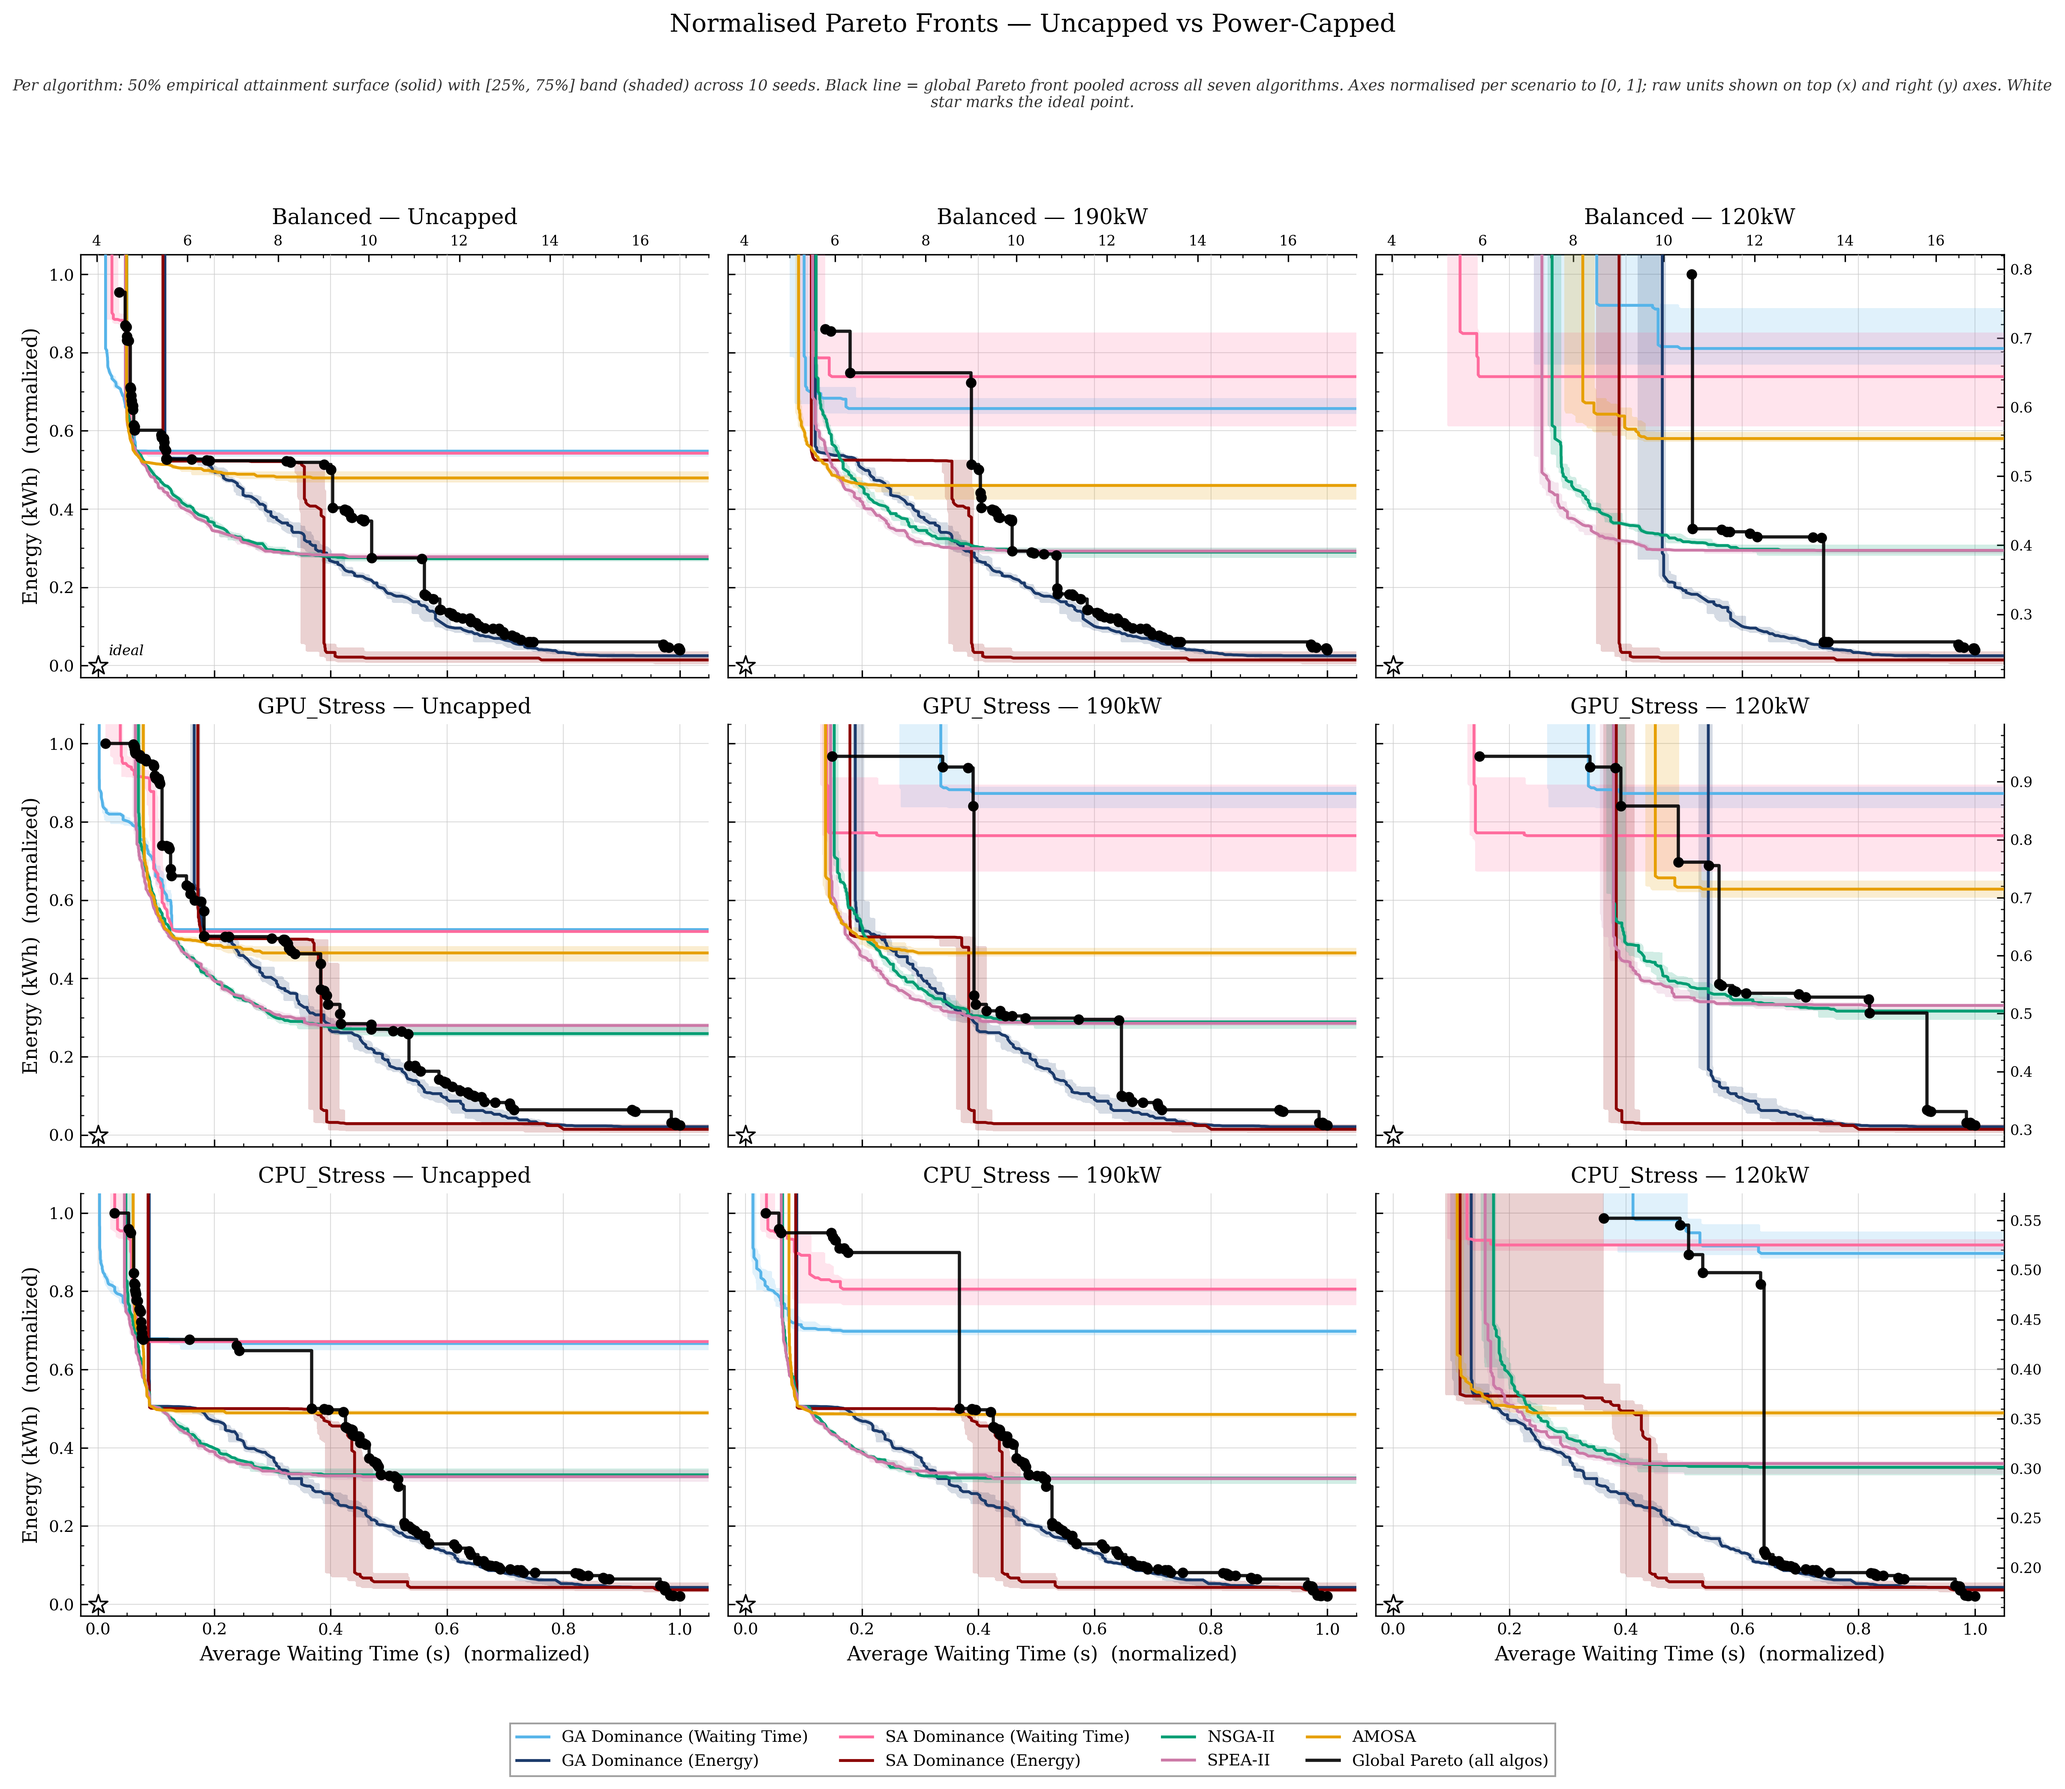
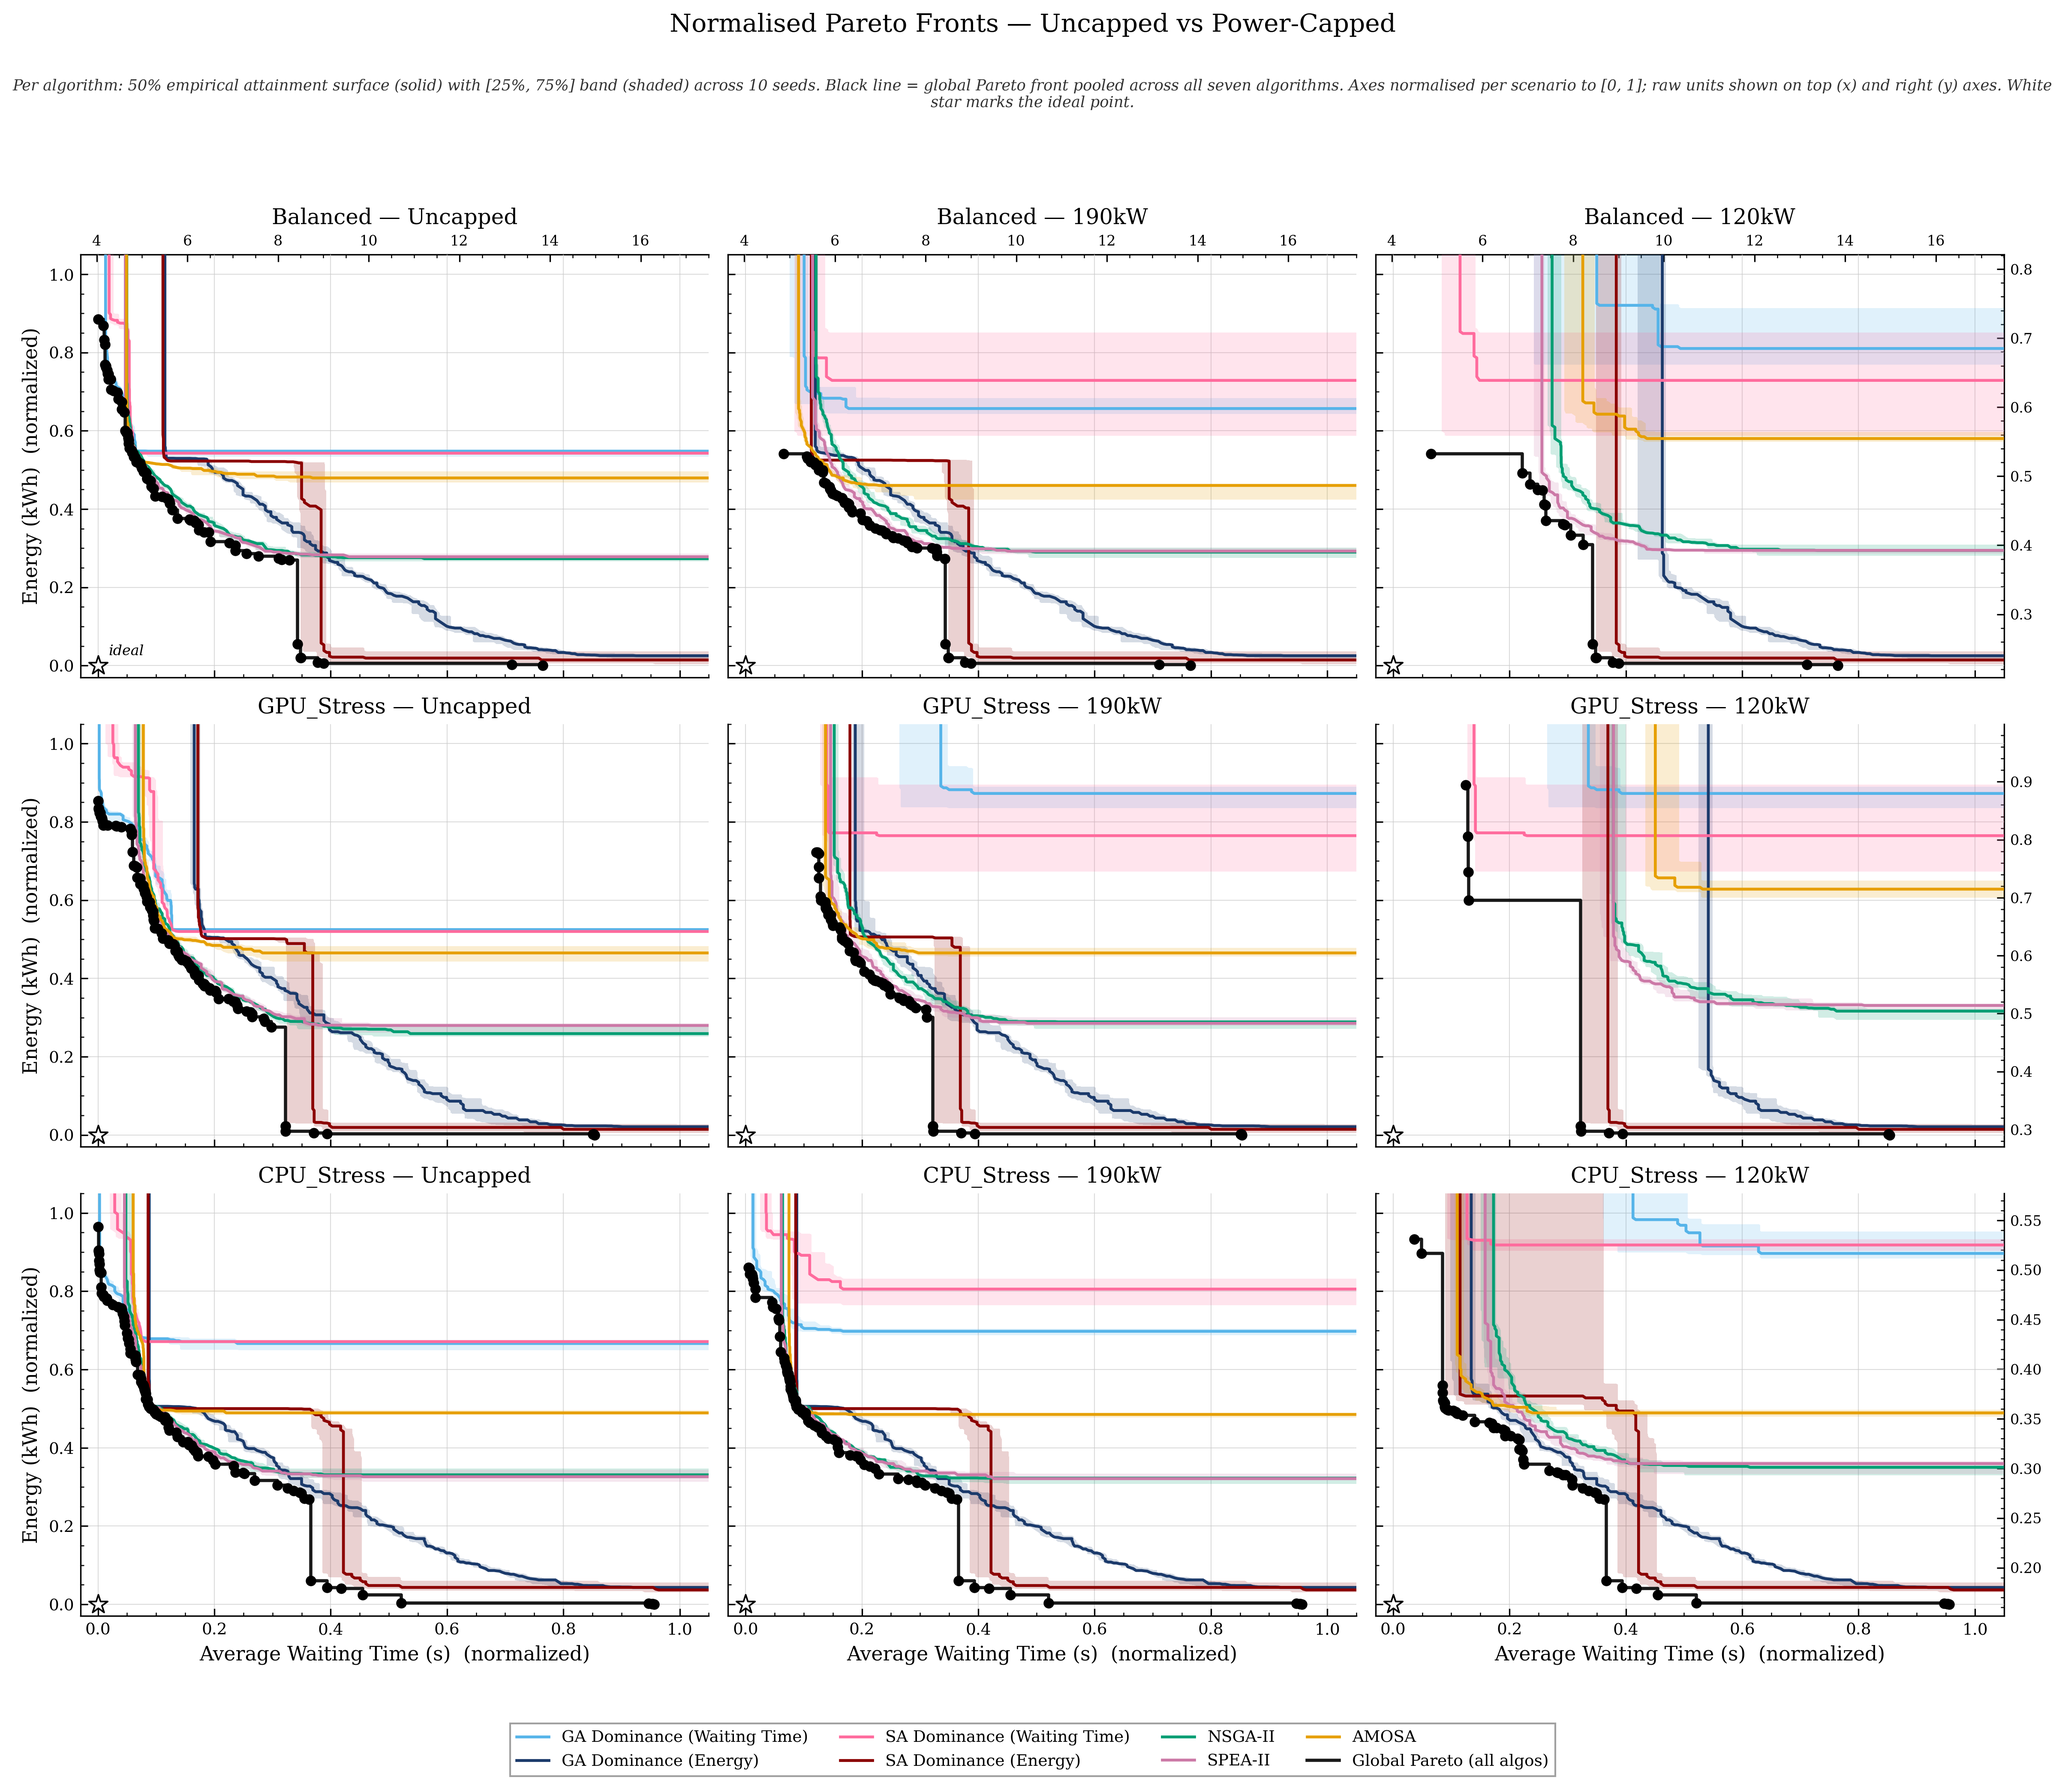
Fix inverted non-dominated mask in Global Pareto
The previous loop built dominated[j] = 'P[j] dominates P[i]' then
dropped those j's from the keep mask, so the function returned the
dominated points instead of the non-dominated ones. The Global
Pareto line ended up tracing the worst-of-best points, which in
panels like CPU_Stress-Uncapped sat visibly above every algorithm's
EAF surface.

Rewrite the mask: for each i, drop it if any j dominates it. Global
Pareto now correctly hugs the lower-left envelope.

https://claude.ai/code/session_01RwY8GN9dvrAPdDZTnej5M7

diff --git a/scripts/compare_capped_uncapped.py b/scripts/compare_capped_uncapped.py
@@ -125,15 +125,20 @@ def parse_algorithm_ids(s):
 
 
 def non_dominated_mask(points):
-    """Boolean mask of non-dominated rows (minimising both columns)."""
+    """Boolean mask of non-dominated rows (minimising both columns).
+
+    Row i is kept iff no other row j satisfies P[j] <= P[i] component-wise
+    AND P[j] < P[i] in at least one dimension (i.e. j dominates i).
+    """
     P = np.asarray(points, float)
     n = len(P)
     keep = np.ones(n, bool)
     for i in range(n):
-        if not keep[i]:
-            continue
-        dominated = np.all(P <= P[i], axis=1) & np.any(P < P[i], axis=1)
-        keep[dominated] = False
+        # j=i contributes np.any(P[i] < P[i]) == False, so it's excluded.
+        dominated_by_any = (np.all(P <= P[i], axis=1)
+                            & np.any(P < P[i], axis=1)).any()
+        if dominated_by_any:
+            keep[i] = False
     return keep
 
 
